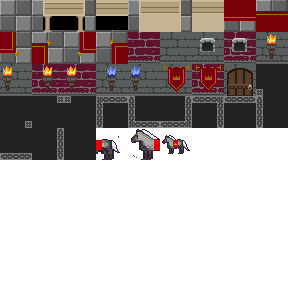
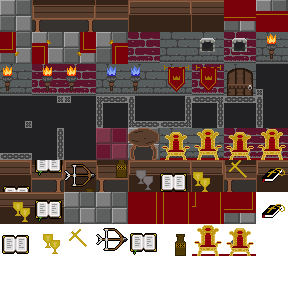
:lipstick: implement details sprites

diff --git a/src/map.h b/src/map.h
@@ -48,6 +48,22 @@ typedef struct SPRITE_MAP
     ALLEGRO_BITMAP* blue_torch_left;
     ALLEGRO_BITMAP* red_wall_torch_center;
     ALLEGRO_BITMAP* red_wall_torch_left;
+    ALLEGRO_BITMAP* throne;
+    ALLEGRO_BITMAP* red_floor;
+    ALLEGRO_BITMAP* seat;
+
+    ALLEGRO_BITMAP* book_top;
+    ALLEGRO_BITMAP* book_bottom;
+    ALLEGRO_BITMAP* bible;
+    ALLEGRO_BITMAP* cup_wine;
+    ALLEGRO_BITMAP* cup_water;
+    ALLEGRO_BITMAP* book;
+    ALLEGRO_BITMAP* arrow;
+    ALLEGRO_BITMAP* poison;
+    ALLEGRO_BITMAP* cross;
+    ALLEGRO_BITMAP* all_rug;
+    ALLEGRO_BITMAP* border_rug_bottom;
+    ALLEGRO_BITMAP* rug_curve;
 }SPRITE_MAP;
 SPRITE_MAP sprite_map;
 
@@ -91,7 +107,22 @@ enum sprite_block
     BLUE_TORCH_CENTER = 131,
     BLUE_TORCH_LEFT = 132,
     RED_WALL_TORCH_CENTER = 133,
-    RED_WALL_TORCH_LEFT = 134 
+    RED_WALL_TORCH_LEFT = 134,
+    THRONE = 135,
+    RED_FLOOR = 136,
+    SEAT = 137,
+    BOOK_TOP = 138,
+    BOOK_BOTTOM = 139,
+    BIBLE = 140,
+    CUP_WINE = 141,
+    CUP_WATER = 142,
+    BOOK = 143,
+    ARROW = 144,
+    POISON = 145,
+    CROSS = 146,
+    ALL_RUG = 147,
+    BORDER_RUG_BOTTOM = 148,
+    RUG_CURVE = 149
 };
 
 
@@ -111,14 +142,14 @@ void init_sprites_map(void)
     if(sprite_map._sheet != NULL) {
         sprite_map.voiding = grab_sprite_map(64, 128, 32, 32, "voiding");
         sprite_map.corner_top_left = grab_sprite_map(64, 96, 32, 32, "corner top left");
-        sprite_map.corner_top_right = grab_sprite_map(32, 96, 32, 32, "corner to right");
+        sprite_map.corner_top_right = grab_sprite_map(32, 96, 32, 32, "corner top right");
         sprite_map.corner_bottom_left = grab_sprite_map(256, 64, 32, 32, "corner bottom left");
         sprite_map.corner_bottom_right = grab_sprite_map(0, 96, 32, 32, "corner bottom right");
         sprite_map.corner_left = grab_sprite_map(256, 96, 32, 32, "corner left");
         sprite_map.corner_right = grab_sprite_map(32, 128, 32, 32, "corner right");
         sprite_map.corner_top = grab_sprite_map(224, 96, 32, 32, "corner top");
         sprite_map.corner_bottom = grab_sprite_map(0, 128, 32, 32, "corner bottom");
-        sprite_map.checkered_floor = grab_sprite_map(0, 0, 32, 32, "checkered floor");
+        sprite_map.checkered_floor = grab_sprite_map(0, 0, 32, 32, "checkered floot");
         sprite_map.wall = grab_sprite_map(160, 32, 32, 32, "wall");
         sprite_map.red_wall = grab_sprite_map(128, 32, 32, 32, "red wall");
         sprite_map.border_top_left = grab_sprite_map(96, 96, 32, 32, "border top left");
@@ -149,7 +180,24 @@ void init_sprites_map(void)
         sprite_map.blue_torch_left = grab_sprite_map(128, 64, 32, 32, "blue torch left");
 
         sprite_map.red_wall_torch_center = grab_sprite_map(32, 64, 32, 32, "red wall torch center");
-        sprite_map.red_wall_torch_left = grab_sprite_map(64, 64, 32, 32, "ted wall torch left");
+        sprite_map.red_wall_torch_left = grab_sprite_map(64, 64, 32, 32, "rd wall torch left");
+        sprite_map.throne = grab_sprite_map(224, 128, 32, 32, "throne");
+        sprite_map.red_floor = grab_sprite_map(96, 128, 32, 32, "red flott");
+        sprite_map.seat = grab_sprite_map(128, 128, 32, 32, "seat");
+
+        sprite_map.book_top = grab_sprite_map(0, 160, 32, 32, "book top");
+        sprite_map.book_bottom = grab_sprite_map(32, 160, 32, 32, "book bottom");
+        sprite_map.bible = grab_sprite_map(256, 160, 32, 32, "bible");
+        sprite_map.cup_wine = grab_sprite_map(192, 160, 32, 32, "cup wine");
+        sprite_map.cup_water = grab_sprite_map(128, 160, 32, 32, "cup water");
+        sprite_map.book = grab_sprite_map(160, 160, 32, 32, "book");
+
+        sprite_map.arrow = grab_sprite_map(64, 160, 32, 32, "arrow");
+        sprite_map.poison = grab_sprite_map(96, 160, 32, 32, "poison");
+        sprite_map.cross = grab_sprite_map(224, 160, 32, 32, "cross");
+        sprite_map.all_rug = grab_sprite_map(160, 192, 32, 32, "all rug");
+        sprite_map.border_rug_bottom = grab_sprite_map(224, 192, 32, 32, "border rug bottom");
+        sprite_map.rug_curve = grab_sprite_map(192, 192, 32, 32, "rug curve");
     }
 
     return;
@@ -244,40 +292,44 @@ void detect_collision(int *player_position_x, int *player_position_y)
             || map[i][j] == BORDER_BOTTOM_RIGHT 
             || map[i][j] == BORDER_BOTTOM_LEFT
             || map[i][j] == DOOR
-            || map[i][j] == FLAG
-            || map[i][j] == RED_FLAG 
+            || map[i][j] == FLAG 
             || map[i][j] == WINDOWS 
             || map[i][j] == RED_WINDOWS
-            || map[i][j] == TABLE_BOTTOM_RIGHT
-            || map[i][j] == TABLE_BOTTOM_LEFT
-            || map[i][j] == TABLE_BOTTOM
-            || map[i][j] == TABLE_TOP_RIGHT
-            || map[i][j] == TABLE_TOP_LEFT
-            || map[i][j] == TABLE_TOP
+            || map[i][j] == BLUE_TORCH_CENTER 
             || map[i][j] == TORCH_CENTER
-            || map[i][j] == TORCH_LEFT
+            || map[i][j] == RED_FLAG
+
+            || map[i][j] == RED_WALL_TORCH_CENTER 
             || map[i][j] == BLUE_TORCH_CENTER
-            || map[i][j] == BLUE_TORCH_LEFT
-            || map[i][j] == RED_WALL_TORCH_CENTER
-            || map[i][j] == RED_WALL_TORCH_LEFT)
+            || map[i][j] == BOOK_TOP
+            || map[i][j] == BOOK_BOTTOM
+            || map[i][j] == BOOK 
+            || map[i][j] == ARROW 
+            || map[i][j] == CUP_WATER
+            || map[i][j] == CUP_WINE 
+            || map[i][j] == POISON
+            || map[i][j] == CROSS
+
+            || map[i][j] == BIBLE
+            || map[i][j] == TABLE_BOTTOM
+            || map[i][j] == TABLE_BOTTOM_LEFT
+            || map[i][j] == TABLE_BOTTOM_RIGHT 
+            || map[i][j] == TABLE_TOP_RIGHT
+            || map[i][j] == TABLE_TOP 
+            || map[i][j] == TABLE_TOP_LEFT)
             {
                 col = collision(*player_position_x, *player_position_y, j * tile_size, i * tile_size, tile_size, tile_size, PROTAGONIST_W, PROTAGONIST_H);
                 collision_reaction(col, player_position_x, player_position_y, j * tile_size, i * tile_size, tile_size, tile_size, PROTAGONIST_W, PROTAGONIST_H, PROTAGONIST_SPEED);
-            } 
-            else if(j == tower.position_x && i == tower.position_y) 
-            {
-                col = collision(*player_position_x, *player_position_y, j * tile_size, i * tile_size, common_size, common_size, PROTAGONIST_W, PROTAGONIST_H);
-                collision_reaction(col, player_position_x, player_position_y, j * tile_size, i * tile_size, common_size, common_size, PROTAGONIST_W, PROTAGONIST_H, PROTAGONIST_SPEED);
             } else if(j == knight.position_x && i == knight.position_y) {
                 col = collision(*player_position_x, *player_position_y, j * tile_size, i * tile_size, knight.width, knight.height, PROTAGONIST_W, PROTAGONIST_H);
                 collision_reaction(col, player_position_x, player_position_y, j * tile_size, i * tile_size, knight.width, knight.height, PROTAGONIST_W, PROTAGONIST_H, PROTAGONIST_SPEED);
             } else if(j == bishop.position_x && i == bishop.position_y) {
                 col = collision(*player_position_x, *player_position_y, j * tile_size, i * tile_size, bishop.width, bishop.height, PROTAGONIST_W, PROTAGONIST_H);
                 collision_reaction(col, player_position_x, player_position_y, j * tile_size, i * tile_size, bishop.width, bishop.height, PROTAGONIST_W, PROTAGONIST_H, PROTAGONIST_SPEED);
-            } /*else if(j == tower.position_x && i == tower.position_y) {
+            } else if(j == tower.position_x && i == tower.position_y) {
                 col = collision(*player_position_x, *player_position_y, j * tile_size, i * tile_size, tower.width, tower.height, PROTAGONIST_W, PROTAGONIST_H);
                 collision_reaction(col, player_position_x, player_position_y, j * tile_size, i * tile_size, tower.width, tower.height, PROTAGONIST_W, PROTAGONIST_H, PROTAGONIST_SPEED);
-            } */else if(j == king.position_x && i == king.position_y) {
+            } else if(j == king.position_x && i == king.position_y) {
                 col = collision(*player_position_x, *player_position_y, j * tile_size, i * tile_size, king.width, king.height, PROTAGONIST_W, PROTAGONIST_H);
                 collision_reaction(col, player_position_x, player_position_y, j * tile_size, i * tile_size, king.width, king.height, PROTAGONIST_W, PROTAGONIST_H, PROTAGONIST_SPEED);
             }
@@ -465,9 +517,68 @@ void map_draw()
                     al_draw_bitmap(sprite_map.red_wall_torch_center, xOff + tile_size * (count % map_columns), yOff + tile_size * (count / map_columns), 0);           
                     break;
 
-
                 case RED_WALL_TORCH_LEFT:
                     al_draw_bitmap(sprite_map.red_wall_torch_left, xOff + tile_size * (count % map_columns), yOff + tile_size * (count / map_columns), 0);
+                    break;
+
+                case THRONE:
+                    al_draw_bitmap(sprite_map.throne, xOff + tile_size * (count % map_columns), yOff + tile_size * (count / map_columns), 0);           
+                    break;
+
+                case RED_FLOOR:
+                    al_draw_bitmap(sprite_map.red_floor, xOff + tile_size * (count % map_columns), yOff + tile_size * (count / map_columns), 0);
+                    break;
+
+                case SEAT:
+                    al_draw_bitmap(sprite_map.seat, xOff + tile_size * (count % map_columns), yOff + tile_size * (count / map_columns), 0);           
+                    break;
+
+                case BOOK_TOP:
+                    al_draw_bitmap(sprite_map.book_top, xOff + tile_size * (count % map_columns), yOff + tile_size * (count / map_columns), 0);           
+                    break;
+                
+                case BOOK_BOTTOM:
+                    al_draw_bitmap(sprite_map.book_bottom, xOff + tile_size * (count % map_columns), yOff + tile_size * (count / map_columns), 0);
+                    break;
+                
+                case BIBLE:
+                    al_draw_bitmap(sprite_map.bible, xOff + tile_size * (count % map_columns), yOff + tile_size * (count / map_columns), 0);
+                    break;
+
+                case CUP_WINE:
+                    al_draw_bitmap(sprite_map.cup_wine, xOff + tile_size * (count % map_columns), yOff + tile_size * (count / map_columns), 0);           
+                    break;
+
+                case CUP_WATER:
+                    al_draw_bitmap(sprite_map.cup_water, xOff + tile_size * (count % map_columns), yOff + tile_size * (count / map_columns), 0);
+                    break;
+
+                case BOOK:
+                    al_draw_bitmap(sprite_map.book, xOff + tile_size * (count % map_columns), yOff + tile_size * (count / map_columns), 0);           
+                    break;
+
+                case ARROW:
+                    al_draw_bitmap(sprite_map.arrow, xOff + tile_size * (count % map_columns), yOff + tile_size * (count / map_columns), 0);
+                    break;
+
+                case POISON:
+                    al_draw_bitmap(sprite_map.poison, xOff + tile_size * (count % map_columns), yOff + tile_size * (count / map_columns), 0);           
+                    break;
+
+                case CROSS:
+                    al_draw_bitmap(sprite_map.cross, xOff + tile_size * (count % map_columns), yOff + tile_size * (count / map_columns), 0);
+                    break;
+
+                case ALL_RUG:
+                    al_draw_bitmap(sprite_map.all_rug, xOff + tile_size * (count % map_columns), yOff + tile_size * (count / map_columns), 0);           
+                    break;
+
+                case BORDER_RUG_BOTTOM:
+                    al_draw_bitmap(sprite_map.border_rug_bottom, xOff + tile_size * (count % map_columns), yOff + tile_size * (count / map_columns), 0);           
+                    break;
+
+                case RUG_CURVE:
+                    al_draw_bitmap(sprite_map.rug_curve, xOff + tile_size * (count % map_columns), yOff + tile_size * (count / map_columns), 0);           
                     break;
 
                 default:
@@ -526,6 +637,21 @@ void destroy_sprites_map(void)
     al_destroy_bitmap(sprite_map.blue_torch_left);
     al_destroy_bitmap(sprite_map.red_wall_torch_center);
     al_destroy_bitmap(sprite_map.red_wall_torch_left);
+    al_destroy_bitmap(sprite_map.throne);
+    al_destroy_bitmap(sprite_map.red_floor);
+    al_destroy_bitmap(sprite_map.seat);
+    al_destroy_bitmap(sprite_map.book_top);
+    al_destroy_bitmap(sprite_map.book_bottom);
+    al_destroy_bitmap(sprite_map.bible);
+    al_destroy_bitmap(sprite_map.cup_wine);
+    al_destroy_bitmap(sprite_map.cup_water);
+    al_destroy_bitmap(sprite_map.book);
+    al_destroy_bitmap(sprite_map.arrow);
+    al_destroy_bitmap(sprite_map.poison);
+    al_destroy_bitmap(sprite_map.cross);
+    al_destroy_bitmap(sprite_map.all_rug);
+    al_destroy_bitmap(sprite_map.border_rug_bottom);
+    al_destroy_bitmap(sprite_map.rug_curve);
 
     return;
 }
